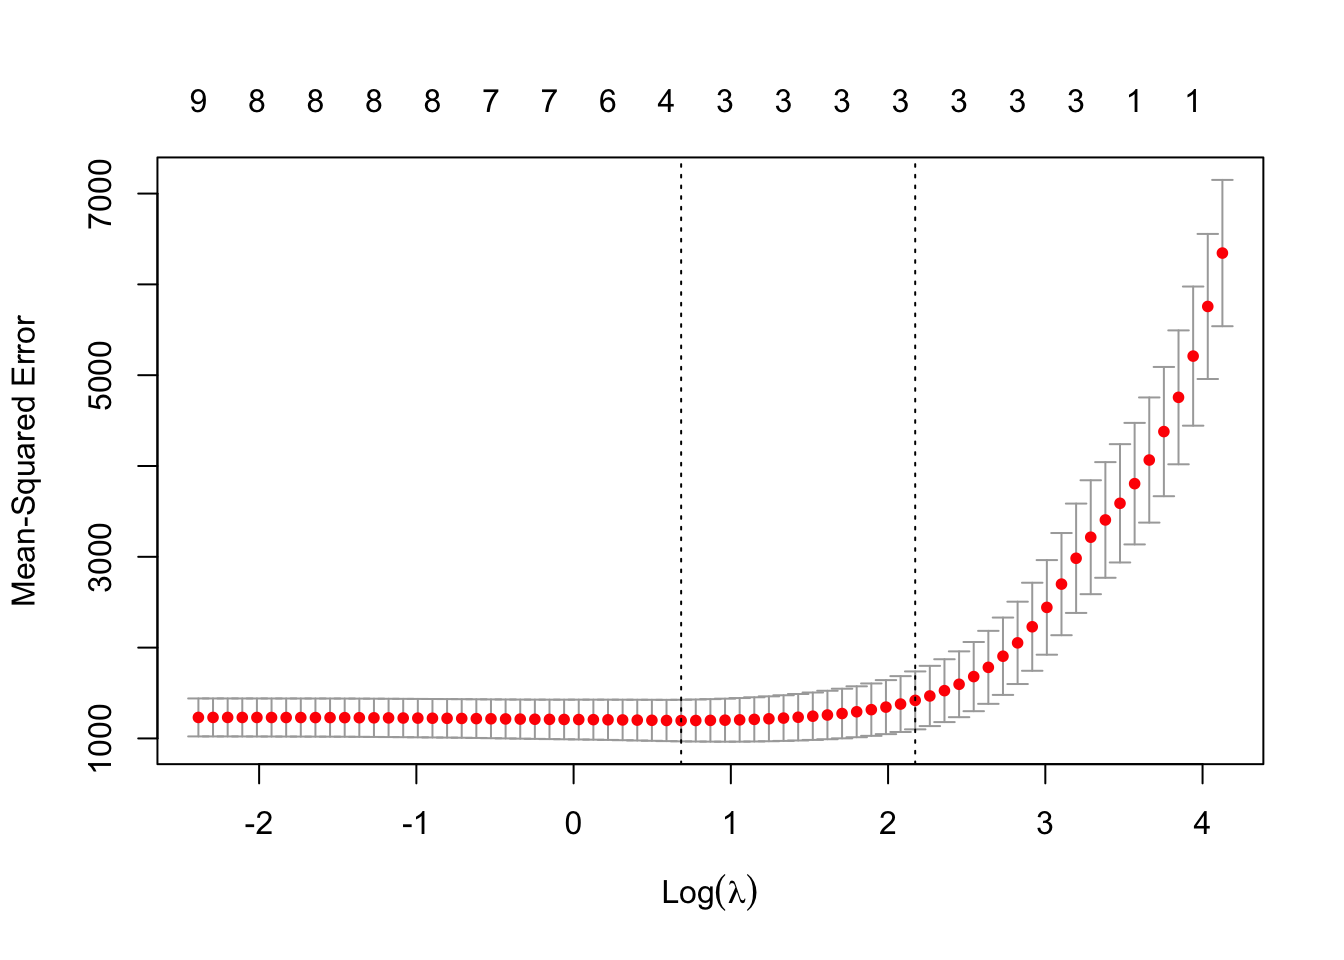
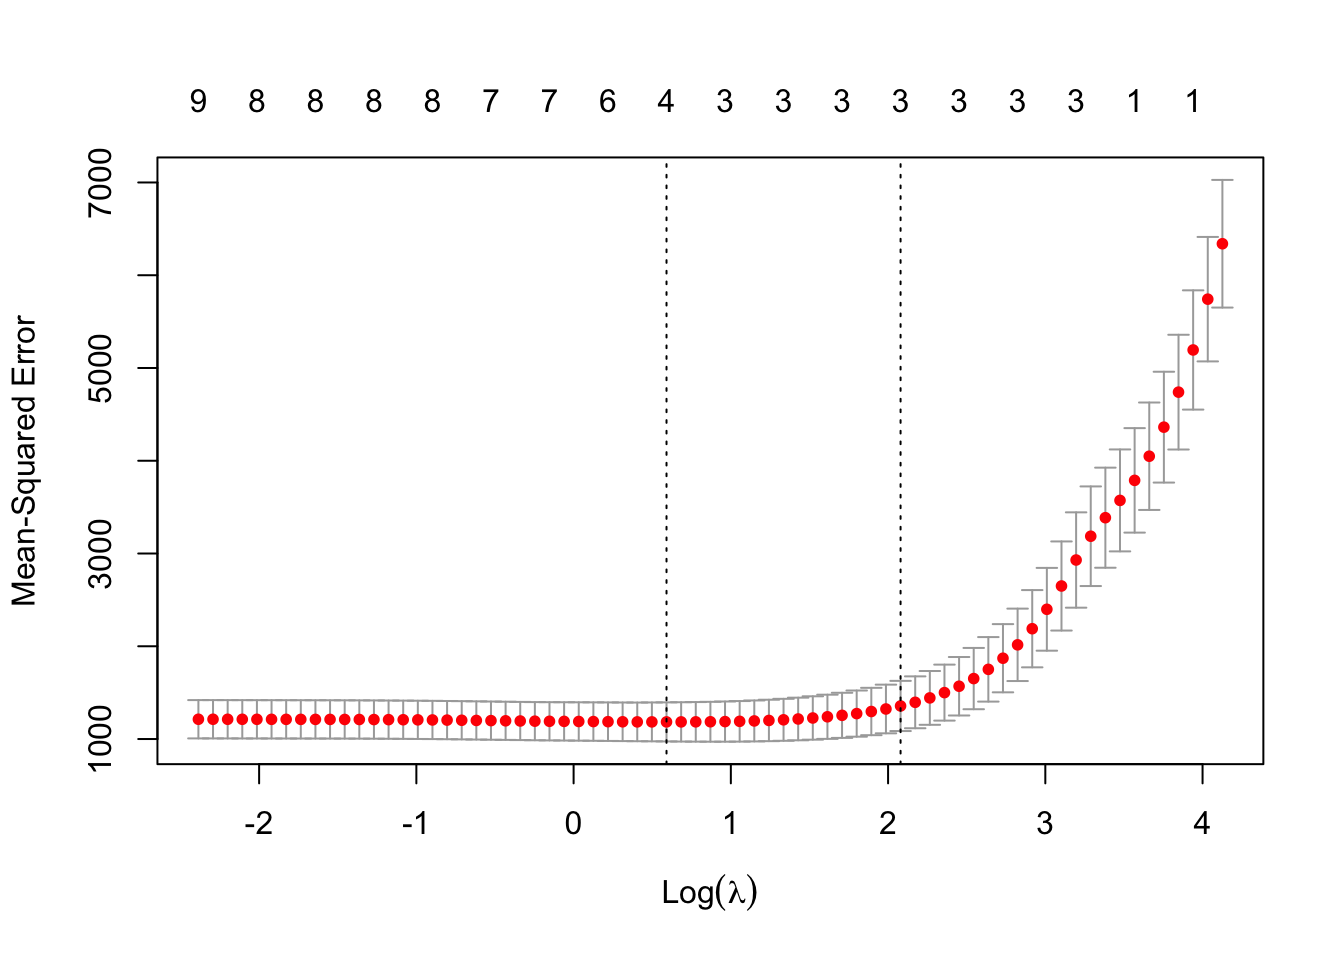
typos part 2

diff --git a/MAS61004LM/modelSelection.html b/MAS61004LM/modelSelection.html
@@ -657,7 +657,7 @@ Note
 <div class="cell">
 <div class="sourceCode cell-code" id="cb32"><pre class="sourceCode r code-with-copy"><code class="sourceCode r"><span id="cb32-1"><a href="#cb32-1" aria-hidden="true" tabindex="-1"></a>lmLassoCV<span class="sc">$</span>lambda<span class="fl">.1</span>se</span></code><button title="Copy to Clipboard" class="code-copy-button"><i class="bi"></i></button></pre></div>
 <div class="cell-output cell-output-stdout">
-<pre><code>[1] 8.779945</code></pre>
+<pre><code>[1] 7.999959</code></pre>
 </div>
 </div>
 <p>Similarly for ridge regression.</p>
@@ -681,16 +681,16 @@ Note
 <div class="cell-output cell-output-stdout">
 <pre><code>10 x 3 sparse Matrix of class "dgCMatrix"
                                            s1          s1
-(Intercept)           179.7789115  187.494303 172.8461992
-exercise                4.0843780    2.604639   2.3440272
+(Intercept)           179.7789115  187.050303 172.8461992
+exercise                4.0843780    2.709105   2.3440272
 pulse                  -0.3311115    .          0.6438444
 pollution               0.9322368    .          0.9372327
 asbestosYes            -5.2548552    .         -1.8279559
 homeScotland            5.1136247    .          2.6362831
 homeWales               0.8962507    .          1.0010502
 homeNorthern_Ireland    5.7756180    .          4.4893148
-smokeYes             -120.9720708 -104.327190 -92.5895106
-asthmaYes             -49.8651200  -32.166129 -38.8886080</code></pre>
+smokeYes             -120.9720708 -105.763137 -92.5895106
+asthmaYes             -49.8651200  -33.734300 -38.8886080</code></pre>
 </div>
 </div>
 <p>A <code>.</code> indicates a coefficient set to 0 in the lasso, which we can think of as variable selection. In this example, this is the same as the coefficients that are not significantly different from 0 in the full model. Note also how (intercept excluded), the coefficients are typically closer to 0 for the lasso and ridge regression models, compared to the full model.</p>
